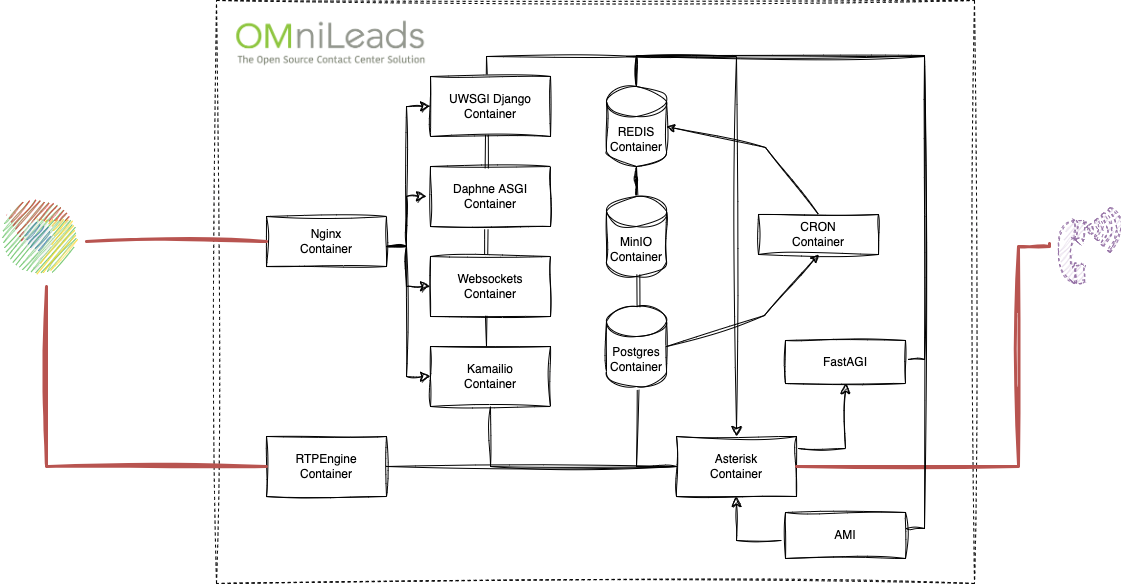
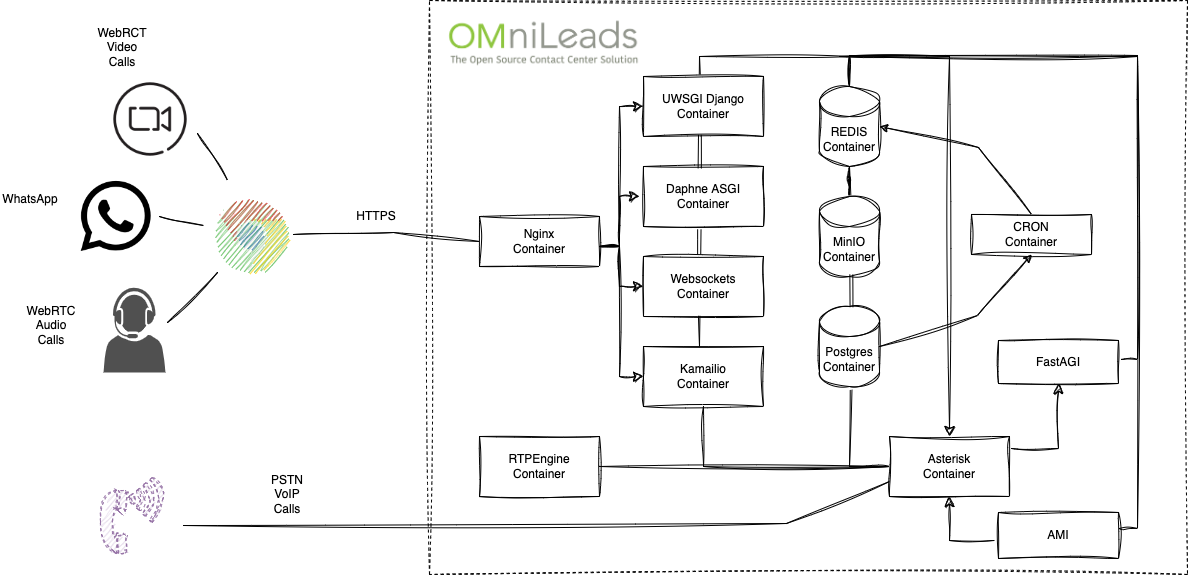
2.0 beta

diff --git a/ReleaseNotes.md b/ReleaseNotes.md
@@ -1,27 +1,19 @@
-# Release Notes - OMniLeads 1.33.3
-[2024-03-08]
+# Release Notes - OMniLeads 2.0.0
+[2024-03-21]
 
 ## Added
 
-* oml-2585 [WEB] [API] New endpoint to upload massive contacts from CRM.
-* oml-488 [WEB] [ANSIBLE] Now it's possible to deploy an instance with automatically generated Let's Encrypt SSL certificates.
+* WhatsApp: se ha adicionad la capacidad de transaccionar mensajes de whatsapp en todas  las campañas.
 
 ## Improvements
 
-* oml-463 [DOCKER] Now it is possible to migrate to OMniLeads Enterprise without editing the docker-compose YAML file.
-* oml-463 [ANSIBLE] the "--rm" flag added to the podman run commands launching backup & django playbooks.
-* oml-463 [WEB] [HA] Startup scripts for the web app UWSGI (django commands) have been modified.
-* oml-463 [ANSIBLE] [HA] Order changed in the failover actions script (aio_transitions.sh).
-* oml-463 [ANSIBLE] [HA] Django, Asterisk, Cron & Nginx components playbook for deploying in HA.
-* oml-2586 [WEB] Pending translations into English have been completed
+* Mejora en la tasa de refresco en las vistas de supervisón de campañas.
 
 ## Fixed
 
-* oml-475 [ASTERISK] Calls that start on one day and end on the next cannot be played back or downloaded.
 
 ## Removed
 
-* oml-463 [ANSIBLE] Now it is possible to migrate to Omnileads Enterprise without inventory.yml flag "enterprise_edition:"
 
 ## OMniLeads Component versions
 
